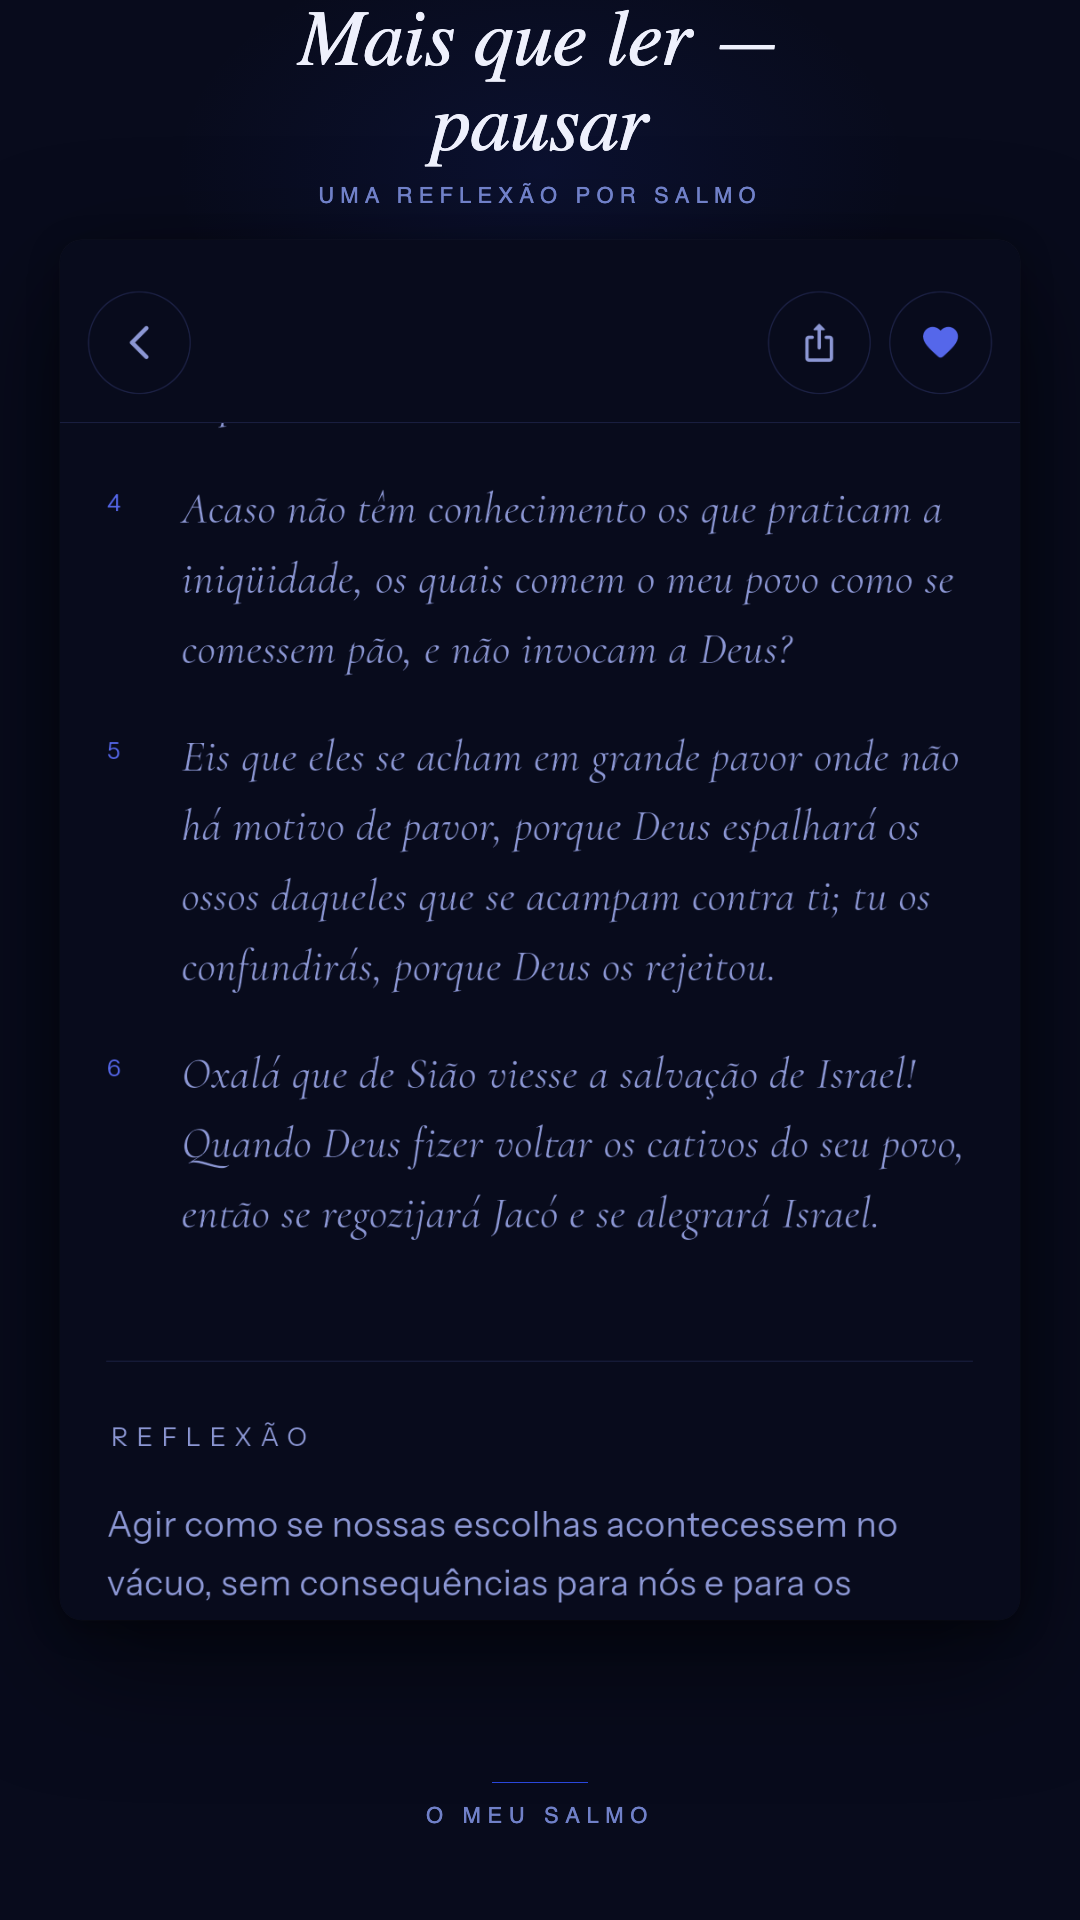
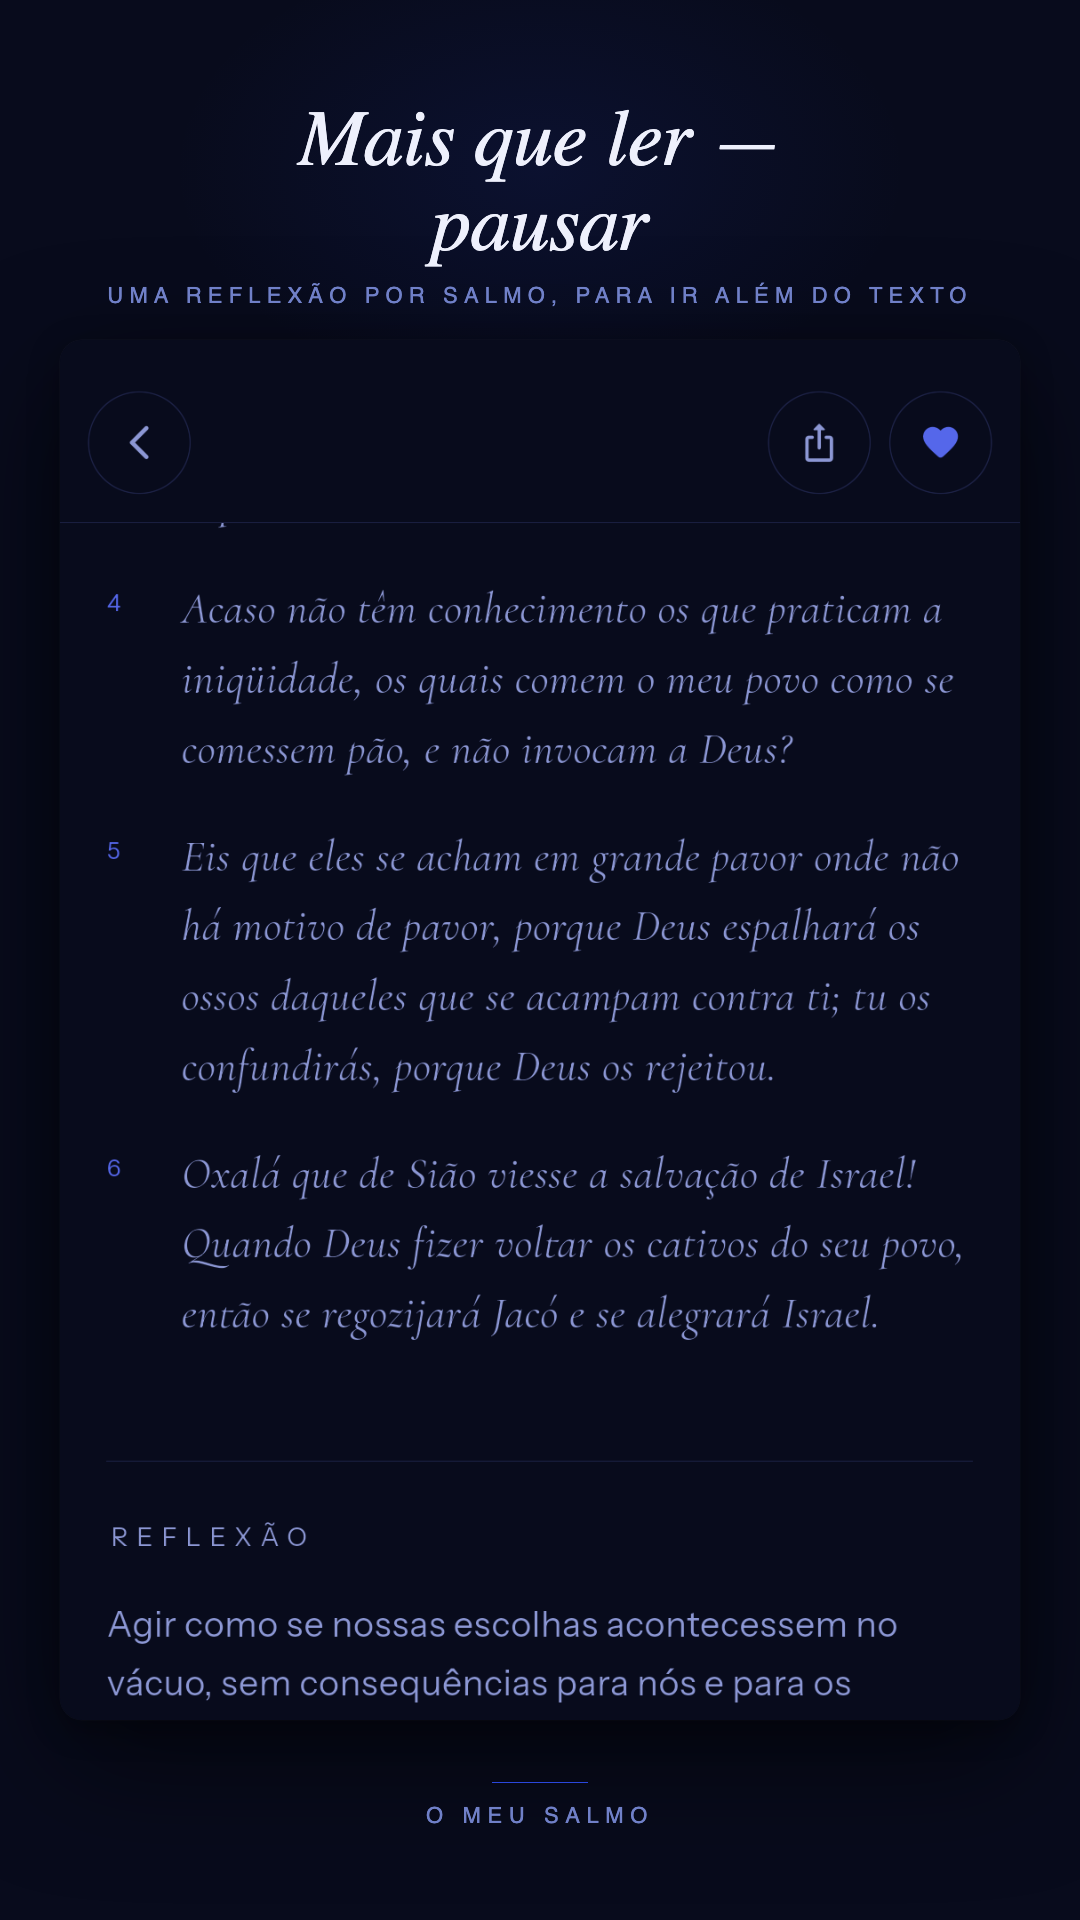
fix(play-store): padding do topo + copy completo em s4 e s6
Spacing:
- s4-reflexao: top-text height 240→340px, app-frame top 240→340px
- s5-colecao: padding-top 0→90px no bloco superior
- s1-colecoes: padding-top 0→80px na zona de texto
- s2-home: spacer de 60px adicionado ao topo do canvas

Copy:
- s4: sub restaurado — "Uma reflexão por Salmo, para ir além do texto"
- s6: sub restaurado — "Salve os que tocaram em você. Offline, sem conta"

diff --git a/play-store/screenshots/final/s4-reflexao.html b/play-store/screenshots/final/s4-reflexao.html
@@ -25,7 +25,7 @@
     .top-text {
       position: absolute;
       top: 0; left: 0; right: 0;
-      height: 240px;
+      height: 340px;
       z-index: 3;
       display: flex;
       flex-direction: column;
@@ -73,7 +73,7 @@
     /* App screenshot — centered, with breathing room */
     .app-frame {
       position: absolute;
-      top: 240px;
+      top: 340px;
       left: 60px;
       right: 60px;
       height: 1380px;
@@ -130,7 +130,7 @@
   <!-- Headline above app -->
   <div class="top-text">
     <h1 class="headline">Mais que ler —<br>pausar</h1>
-    <p class="sub">Uma reflexão por Salmo</p>
+    <p class="sub">Uma reflexão por Salmo, para ir além do texto</p>
   </div>
 
   <!-- App screenshot — framed, breathing room all around -->

diff --git a/play-store/screenshots/final/s2-home.html b/play-store/screenshots/final/s2-home.html
@@ -18,10 +18,19 @@
       position: relative;
     }
 
+    /* Top safe-zone band */
+    .top-spacer {
+      position: absolute;
+      top: 0; left: 0; right: 0;
+      height: 60px;
+      background: #080B1C;
+      z-index: 4;
+    }
+
     /* Full-bleed app screenshot */
     .app-full {
       position: absolute;
-      inset: 0;
+      top: 60px; left: 0; right: 0; bottom: 0;
       z-index: 1;
     }
 
@@ -73,6 +82,9 @@
   </style>
 </head>
 <body>
+
+  <!-- Top safe-zone -->
+  <div class="top-spacer"></div>
 
   <!-- Full-bleed app -->
   <div class="app-full">

diff --git a/play-store/screenshots/final/s6-favoritos.html b/play-store/screenshots/final/s6-favoritos.html
@@ -144,7 +144,7 @@
   <!-- Footer panel -->
   <div class="footer-panel">
     <h1 class="headline">Os seus,<br>para sempre</h1>
-    <p class="sub">Offline, sem conta</p>
+    <p class="sub">Salve os que tocaram em você. Offline, sem conta</p>
     <div class="chips">
       <span class="chip">Ansiedade</span>
       <span class="chip">Sono</span>

diff --git a/play-store/screenshots/final/s5-colecao.html b/play-store/screenshots/final/s5-colecao.html
@@ -54,7 +54,7 @@
       display: flex;
       flex-direction: column;
       justify-content: flex-end;
-      padding: 0 72px 40px;
+      padding: 90px 72px 40px;
     }
 
     .eyebrow-row {

diff --git a/play-store/screenshots/final/s1-colecoes.html b/play-store/screenshots/final/s1-colecoes.html
@@ -26,7 +26,7 @@
       display: flex;
       flex-direction: column;
       justify-content: flex-end;
-      padding: 0 72px 64px;
+      padding: 80px 72px 64px;
       z-index: 3;
     }
 
